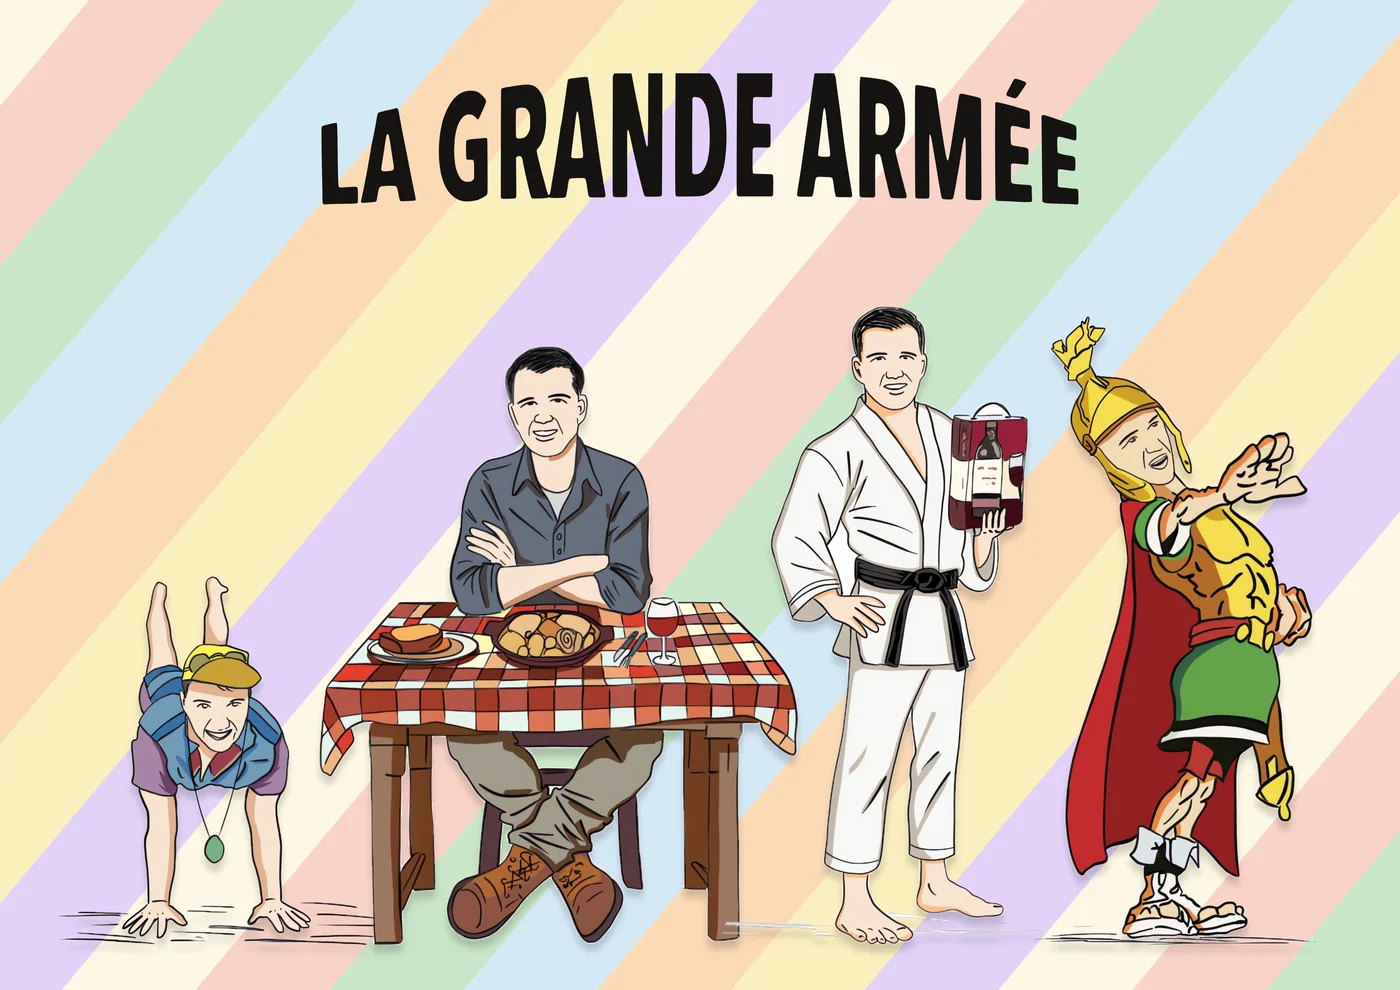
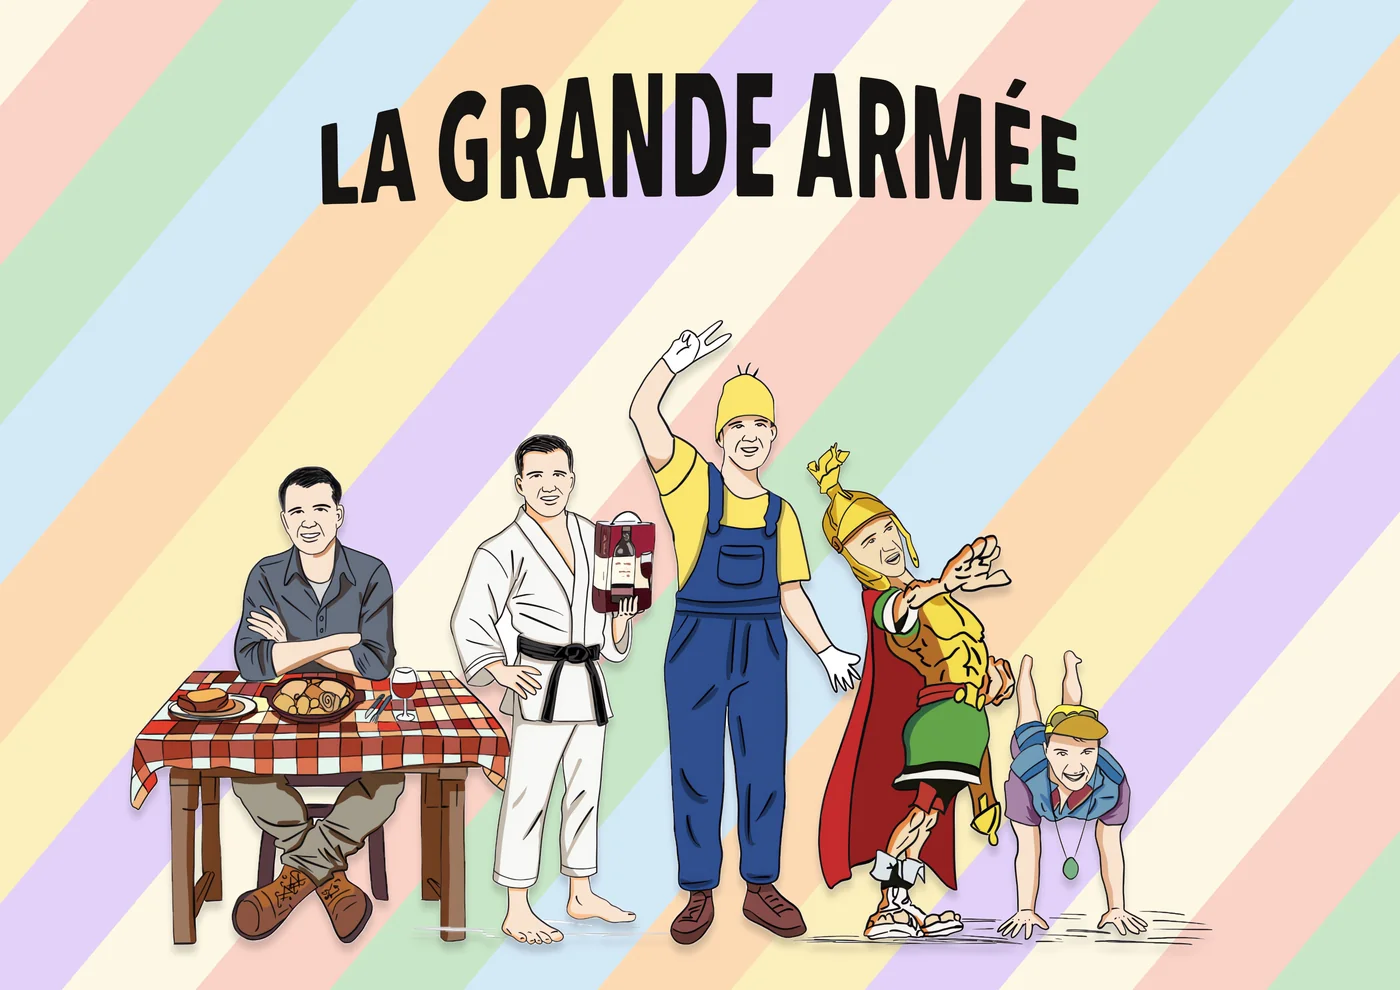
Modèles tout faits : les accessoires sont gardés (« Copier pour Claude » les envoie, la retouche les recharge, familles.py les place) ; affiche copain Merlot avec sa tenue Minion

diff --git a/src/features/poster-configurator/PosterConfigurator.tsx b/src/features/poster-configurator/PosterConfigurator.tsx
@@ -106,10 +106,17 @@ export default function PosterConfigurator({ roster }: Props) {
       selection.push(sel);
       layout[keyOf(sel)] = m.p;
     }
+    // Accessoires du modèle (tracteur, bière…), retrouvés par leur image
+    const accessories: Record<string, Placement> = {};
+    for (const a of r.accessories ?? []) {
+      const acc = ACCESSORIES.find((x) => a.src.endsWith(x.src));
+      if (acc) accessories[acc.id] = a.p;
+    }
     setState((s) => ({
       ...s,
       selection,
       layout,
+      accessories,
       orientation: r.orientation,
       background: r.background,
       title: r.title,
@@ -130,7 +137,11 @@ export default function PosterConfigurator({ roster }: Props) {
       const src = (look.cutout ?? look.image).replace(base, '').replace(/^\//, '');
       return [{ src, p: { x: r2(p.x), y: r2(p.y), h: r2(p.h), z: p.z, ...(p.flip ? { flip: true } : {}) } }];
     });
-    const texte = `Retouche du modèle « ${retouche} » :\n${JSON.stringify({ modele: retouche, members })}`;
+    const accessoires = Object.entries(state.accessories).map(([id, p]) => ({
+      id,
+      p: { x: r2(p.x), y: r2(p.y), h: r2(p.h), z: p.z, ...(p.flip ? { flip: true } : {}) },
+    }));
+    const texte = `Retouche du modèle « ${retouche} » :\n${JSON.stringify({ modele: retouche, members, ...(accessoires.length ? { accessoires } : {}) })}`;
     try {
       await navigator.clipboard.writeText(texte);
     } catch {

diff --git a/sources/affiches/familles.py b/sources/affiches/familles.py
@@ -34,6 +34,17 @@ FAMILLE_DE = {**NOMS, "joystick": "Ludick", "izi-karate": "Izi Karaté"}
 # Tenues dessinées en marche vers la gauche (voir src/features/la-grande-course/sens.ts)
 GAUCHE = set(re.findall(r"'([a-z]+/[a-z-]+)'", (ROOT / "src/features/la-grande-course/sens.ts").read_text()))
 PLACEMENTS = json.loads((ROOT / "sources/affiches/familles/placements-elora.json").read_text())
+# Accessoires posés par Elora sur ses modèles : {modèle: [{id, p}]} (clé « accessoires » du fichier de placements)
+ACCESSOIRES = PLACEMENTS.get("accessoires", {})
+ACC_INFOS = {i: (label, src) for i, label, src in re.findall(r"\{ id: '([^']+)', label: '([^']+)', src: '([^']+)'", (ROOT / "src/features/poster-configurator/types.ts").read_text())}
+
+
+def accessoires(modele):
+    """Champ « accessories » de la recette (absent quand le modèle n'en a pas)."""
+    liste = [dict(name=ACC_INFOS[a["id"]][0], family="", src=ACC_INFOS[a["id"]][1], p=a["p"]) for a in ACCESSOIRES.get(modele, []) if a["id"] in ACC_INFOS]
+    return {"accessories": liste} if liste else {}
+
+
 PRENOMS = dict(re.findall(r"slug: '([a-z]+)',\s*name: '([^']+)'", (ROOT / "src/data/characters.ts").read_text()))
 
 
@@ -214,6 +225,7 @@ if __name__ == "__main__":
                 subtitle="", title="La Grande Armée", showSubtitle=False, showBrand=False,
                 members=[dict(name=prenom, family=FAMILLE_DE.get(looks_fam[m["src"]], looks_fam[m["src"]]), src=m["src"], p=m["p"])
                          for m in PLACEMENTS[f"copain-{slug}"]],
+                **accessoires(f"copain-{slug}"),
             )
     else:
         sortie = ROOT / "sources/affiches/familles/recettes.json"
@@ -231,5 +243,6 @@ if __name__ == "__main__":
                 members=[dict(name=PRENOMS.get(m["src"].split("/")[2], m["src"].split("/")[2]),
                               family=FAMILLE_DE.get(looks[m["src"]], looks[m["src"]]), src=m["src"], p=m["p"])
                          for m in PLACEMENTS[fam]],
+                **accessoires(fam),
             )
     sortie.write_text(json.dumps(recettes, indent=1, ensure_ascii=False))
